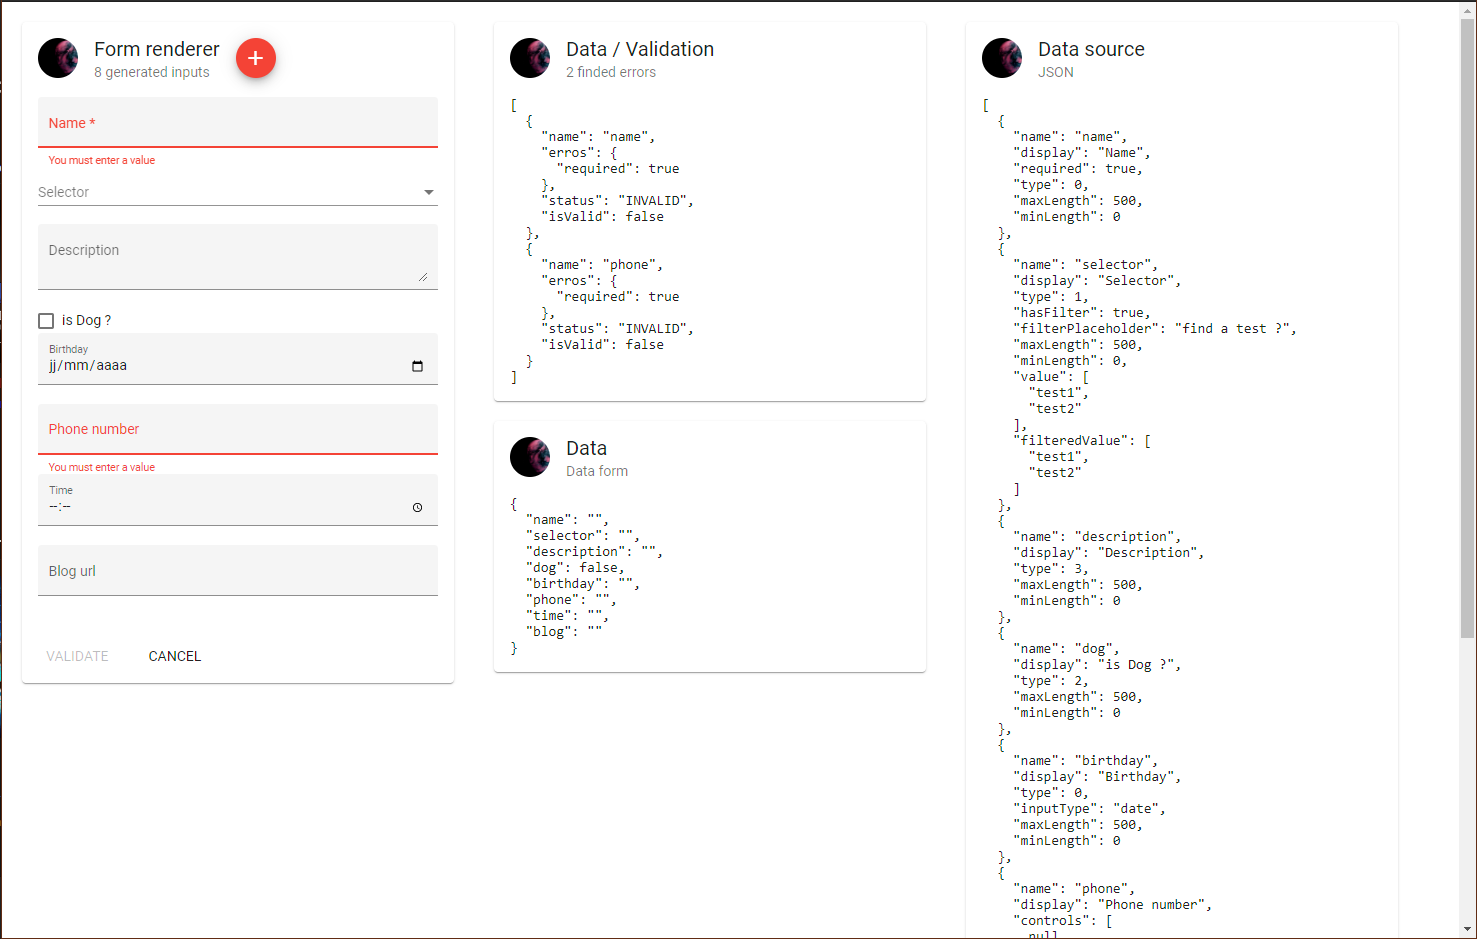
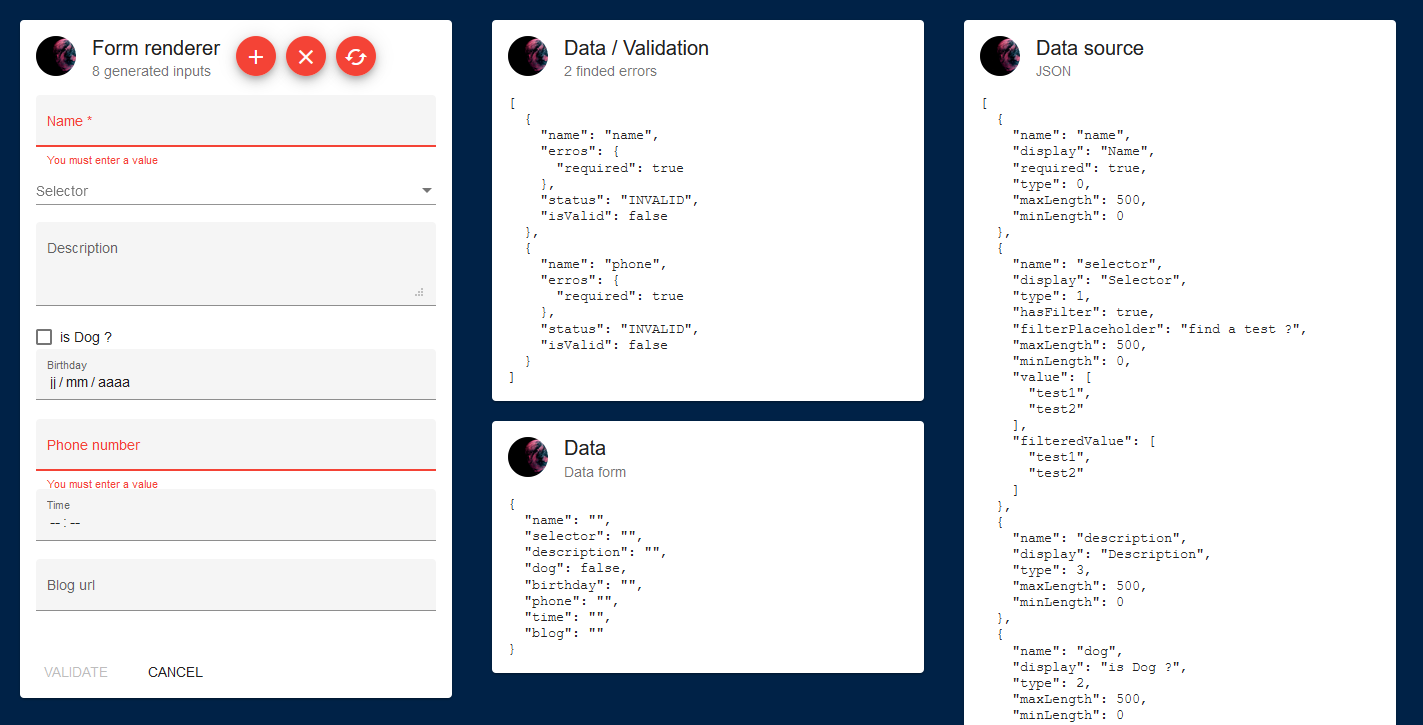
Fix clean, update Readme.md, rewrite renderer & optimize errors calls !

Changed region(s): [[0.0, 0.0, 1.0, 1.0]]

diff --git a/projects/master-form/src/lib/master-form.component.ts b/projects/master-form/src/lib/master-form.component.ts
@@ -1,6 +1,6 @@
-import { AfterContentInit, Component, EventEmitter, Input, OnDestroy, OnInit, Output, TemplateRef, ViewChild, ViewContainerRef } from '@angular/core';
-import { FormControl, FormGroup, ValidatorFn } from '@angular/forms';
-import { Observable, Subscription } from 'rxjs';
+import { AfterContentInit, Component, EventEmitter, Input, OnDestroy, OnInit, Output, TemplateRef, ViewChild, ViewContainerRef, ChangeDetectionStrategy, ChangeDetectorRef } from '@angular/core';
+import { FormControl, FormGroup, ValidatorFn, FormGroupDirective } from '@angular/forms';
+import { Observable, Subscription, of } from 'rxjs';
 import { MasterFormHelperData } from './master-form.helper.interface';
 
 export enum MasterFormType {
@@ -54,6 +54,7 @@ export declare interface Subs {
 @Component({
     moduleId: module.id,
     selector: 'master-form',
+    changeDetection: ChangeDetectionStrategy.OnPush,
     templateUrl: 'master-form.component.html',
     styleUrls: ['master-form.component.scss']
 })
@@ -68,20 +69,24 @@ export class MasterFormComponent implements OnDestroy, OnInit, AfterContentInit 
     @Input() data: any = <any>{};
     @Input() autoValidate?: boolean;
 
+    @Input() rendererItemsRenderedAtOnce?: number = 30;
+    @Input() rendererItemsIntervalInMs?: number = 20;
+
     @Input() clear?: EventEmitter<void> = new EventEmitter();
     @Input() render?: EventEmitter<void> = new EventEmitter();
     @Input() reload?: EventEmitter<void> = new EventEmitter();
 
-    @Output() onInit?: EventEmitter<any> = new EventEmitter();
-    @Output() onData?: EventEmitter<any> = new EventEmitter();
-    @Output() onValidate?: EventEmitter<any> = new EventEmitter();
-    @Output() onError?: EventEmitter<any> = new EventEmitter();
-    @Output() onObservableUpdate?: EventEmitter<any> = new EventEmitter();
+    @Output() onInit?: EventEmitter<MasterFormHelperData<any>> = new EventEmitter();
+    @Output() onData?: EventEmitter<MasterFormHelperData<any>> = new EventEmitter();
+    @Output() onValidate?: EventEmitter<boolean> = new EventEmitter();
+    @Output() onError?: EventEmitter<any[]> = new EventEmitter();
+    @Output() onObservableUpdate?: EventEmitter<MasterFormHelperData<any>> = new EventEmitter();
 
     @ViewChild('itemsContainer', { read: ViewContainerRef }) container: ViewContainerRef;
     @ViewChild('item', { read: TemplateRef }) template: TemplateRef<any>;
+    @ViewChild(FormGroupDirective) formDirective: FormGroupDirective;
 
-    constructor() {
+    constructor(private ref: ChangeDetectorRef) {
     }
 
     ngAfterContentInit() {
@@ -89,6 +94,14 @@ export class MasterFormComponent implements OnDestroy, OnInit, AfterContentInit 
             this.masterForms = [];
             this.data = {};
             this.container.clear();
+            this.formGroup.reset();
+            this.formDirective.resetForm();
+            this.onError.emit([]);
+            this.onValidate.emit(false);
+            this.onData.emit({
+                data: [],
+                form: <FormGroup>{}
+            });
             this.subscriptions.filter(sub => sub.type == SubType.DEFAULT).forEach(subscription => {
                 if (!subscription.subscription.closed) {
                     subscription.subscription.unsubscribe();
@@ -168,8 +181,8 @@ export class MasterFormComponent implements OnDestroy, OnInit, AfterContentInit 
     }
 
     private renderItem() {
-        const ITEMS_RENDERED_AT_ONCE = 30;
-        const INTERVAL_IN_MS = 20;
+        const ITEMS_RENDERED_AT_ONCE = this.rendererItemsRenderedAtOnce
+        const INTERVAL_IN_MS = this.rendererItemsIntervalInMs;
 
         let currentIndex = 0;
 
@@ -187,6 +200,7 @@ export class MasterFormComponent implements OnDestroy, OnInit, AfterContentInit 
                     masterForm: this.masterForms[n]
                 });
             }
+            this.ref.detectChanges();
             currentIndex += ITEMS_RENDERED_AT_ONCE;
         }, INTERVAL_IN_MS);
     };
@@ -231,26 +245,29 @@ export class MasterFormComponent implements OnDestroy, OnInit, AfterContentInit 
                 form: this.formGroup
             });
         }
-        if (this.onError) {
-            this.addSubscription(SubType.DEFAULT, this.formGroup.valueChanges.subscribe(() => {
-                this.emitOnError();
-            }));
-        }
         this.renderItem();
+        if (this.onError) {
+            if (this.formGroup.errors !== null) {
+                this.emitOnError();
+            }
+        }
     }
 
     emitOnError() {
-        this.onError.emit(Object.keys(this.formGroup.controls).map(object => {
-            return {
-                'name': object,
-                'erros': this.formGroup.controls[object].errors,
-                'status': this.formGroup.controls[object].status,
-                'isValid': this.formGroup.controls[object].status !== "INVALID"
-            }
-        }));
+        this.onError.emit(Object.keys(this.formGroup.controls)
+            .filter(key => this.formGroup.controls[key].status === "INVALID")
+            .map(object => {
+                return {
+                    'name': object,
+                    'erros': this.formGroup.controls[object].errors,
+                    'status': this.formGroup.controls[object].status,
+                    'isValid': this.formGroup.controls[object].status !== "INVALID"
+                }
+            }));
     }
 
     ngOnDestroy() {
+        console.log('destroy')
         this.subscriptions.forEach(subscription => {
             if (!subscription.subscription.closed) {
                 subscription.subscription.unsubscribe();
@@ -261,7 +278,6 @@ export class MasterFormComponent implements OnDestroy, OnInit, AfterContentInit 
     ngOnInit(): void {
         if (this.observable) {
             this.addSubscription(SubType.SYSTEM, this.observable.subscribe(masterForms => {
-                console.log("---> update", masterForms);
                 this.masterForms = masterForms;
                 this.init(masterForms);
                 if (this.onObservableUpdate) {

diff --git a/projects/master-form-demo/src/app/app.component.ts b/projects/master-form-demo/src/app/app.component.ts
@@ -56,16 +56,17 @@ export class AppComponent implements MasterFormHelperInterface<any>, OnInit {
       console.log('The dialog was closed');
       console.log(result);
       if (result !== undefined) {
-        // this.masterFormService.buildData(500, (i) => {
-        //   let t = { ...result };
-        //   t.name = i + '-' + t.name;
-        //   t.display = i + '-' + t.display;
-        //   this.masterForms.push(t);
-        // }, () => {
-        //   this.jsonData.next(this.masterForms);
-        // });
-        this.masterForms.push(result);
-        this.jsonData.next([result]);
+        // this.masterForms = [];
+        this.masterFormService.buildData(100, (i) => {
+          let t = { ...result };
+          t.name = i + '-' + t.name;
+          t.display = i + '-' + t.display;
+          this.masterForms.push(t);
+        }, () => {
+          this.jsonData.next(this.masterForms);
+        });
+        // this.masterForms.push(result);
+        // this.jsonData.next([result]);
       }
     });
   }
@@ -126,8 +127,9 @@ export class AppComponent implements MasterFormHelperInterface<any>, OnInit {
   ];
 
   clear() {
-    // this.data = {};
-    // this.masterForms = [];
+    this.data = null;
+    this.errors = [];
+    this.masterForms = [];
     this.change.emit();
   }
 
@@ -136,26 +138,22 @@ export class AppComponent implements MasterFormHelperInterface<any>, OnInit {
   }
 
   onInit(data: MasterFormHelperData<any>): void {
-    console.log(data);
   }
 
   validate(disabled: boolean): void {
-    console.log(disabled);
     this.disabled = disabled;
   }
 
   onData(data: MasterFormHelperData<any>): void {
-    console.log(data);
     this.data = data.data;
   }
 
   onError(errors: any[]): void {
-    console.log(errors);
+    console.log("errors", errors);
     this.errors = errors.filter(error => !error.isValid);
   }
 
   onObservableUpdate(data: MasterFormHelperData<any>): void {
-    console.log(data);
     data.form.markAllAsTouched();
   }
 }

diff --git a/projects/master-form-demo/src/app/app.component.html b/projects/master-form-demo/src/app/app.component.html
@@ -5,7 +5,7 @@
     <mat-card-subtitle>{{masterForms.length}} generated inputs</mat-card-subtitle>
     <button mat-mini-fab color="warn" (click)="openDialog()"><mat-icon aria-hidden="false" aria-label="add input">add</mat-icon></button>
     <button mat-mini-fab color="warn" (click)="clear()"><mat-icon aria-hidden="false" aria-label="clear input">clear</mat-icon></button>
-    <button mat-mini-fab color="warn" (click)="test()"><mat-icon aria-hidden="false" aria-label="test input">clear</mat-icon></button>
+    <button mat-mini-fab color="warn" (click)="test()"><mat-icon aria-hidden="false" aria-label="cached input">cached</mat-icon></button>
   </mat-card-header>
   <mat-card-content>
     <div *ngIf="masterForms.length == 0" class="center">

diff --git a/projects/master-form/src/lib/master-form.component.html b/projects/master-form/src/lib/master-form.component.html
@@ -1,7 +1,7 @@
 <div>
     <ng-container #itemsContainer></ng-container>
 <div>
-<form [formGroup]="formGroup">
+<form [formGroup]="formGroup" #formDirective="ngForm">
     <!-- <div *ngFor="let masterForm of masterForms"> -->
     <ng-template #item let-masterForm="masterForm">
         <mat-chip color="primary" selected *ngIf="formGroup.controls[masterForm.name] && isLabel(masterForm)">{{masterForm.display}}</mat-chip>

diff --git a/projects/master-form-demo/src/styles.scss b/projects/master-form-demo/src/styles.scss
@@ -7,6 +7,10 @@ a {
   text-decoration: none;
 }
 
+body {
+  background-color: #002247;
+}
+
 rect:hover, text:hover, text tspan:hover {
   cursor: pointer;
 }

diff --git a/projects/master-form-demo/src/app/app.component.css b/projects/master-form-demo/src/app/app.component.css
@@ -22,3 +22,7 @@
     text-align: center;
     align-content: center;
 }
+
+mat-card-header button {
+    margin-right: 10px;
+}

diff --git a/README.md b/README.md
@@ -1,7 +1,7 @@
 # @sheol/master-form
 
 <p align="center">
-  <img src='assets/demo.png' height="500px" alt="Demo" title="Demo"/>
+  <img src='assets/demo.png' style="border-radius:4px" alt="Demo" title="Demo"/>
 </p>
 
 ```bash
